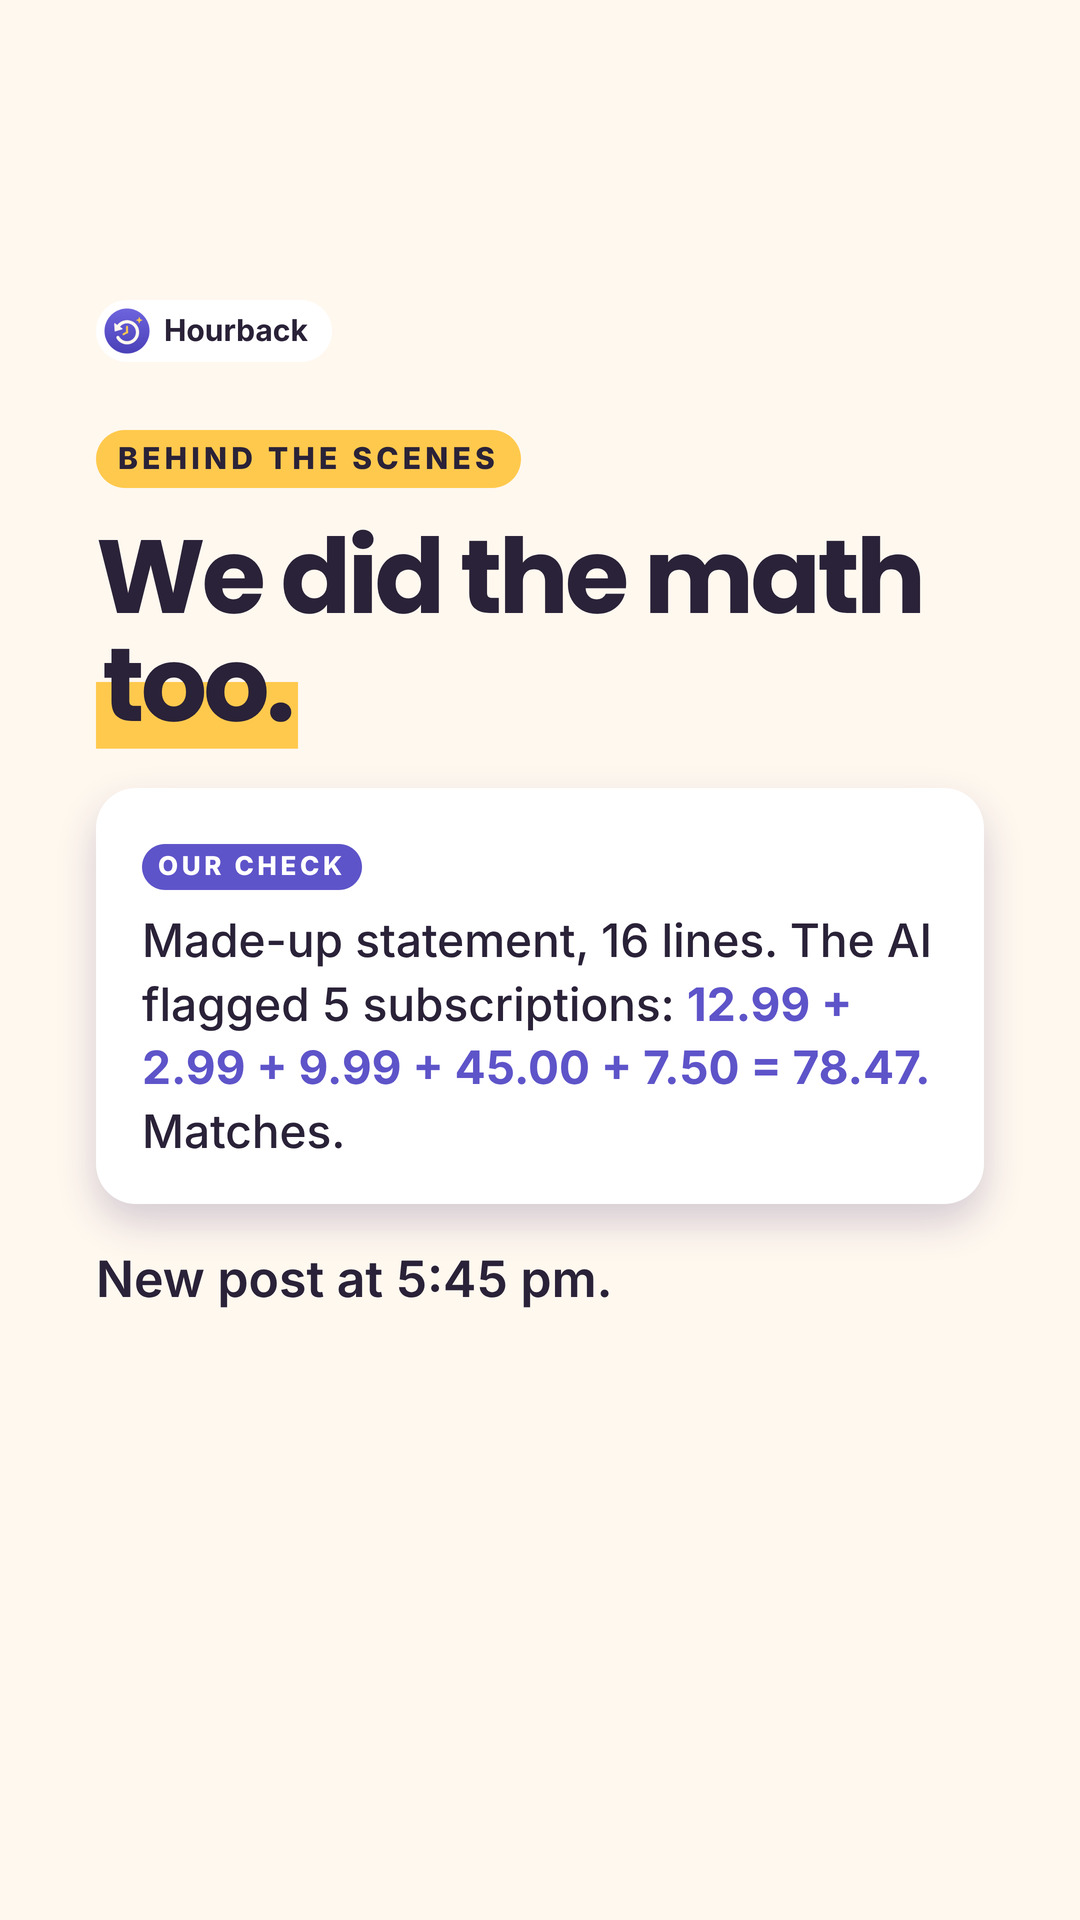
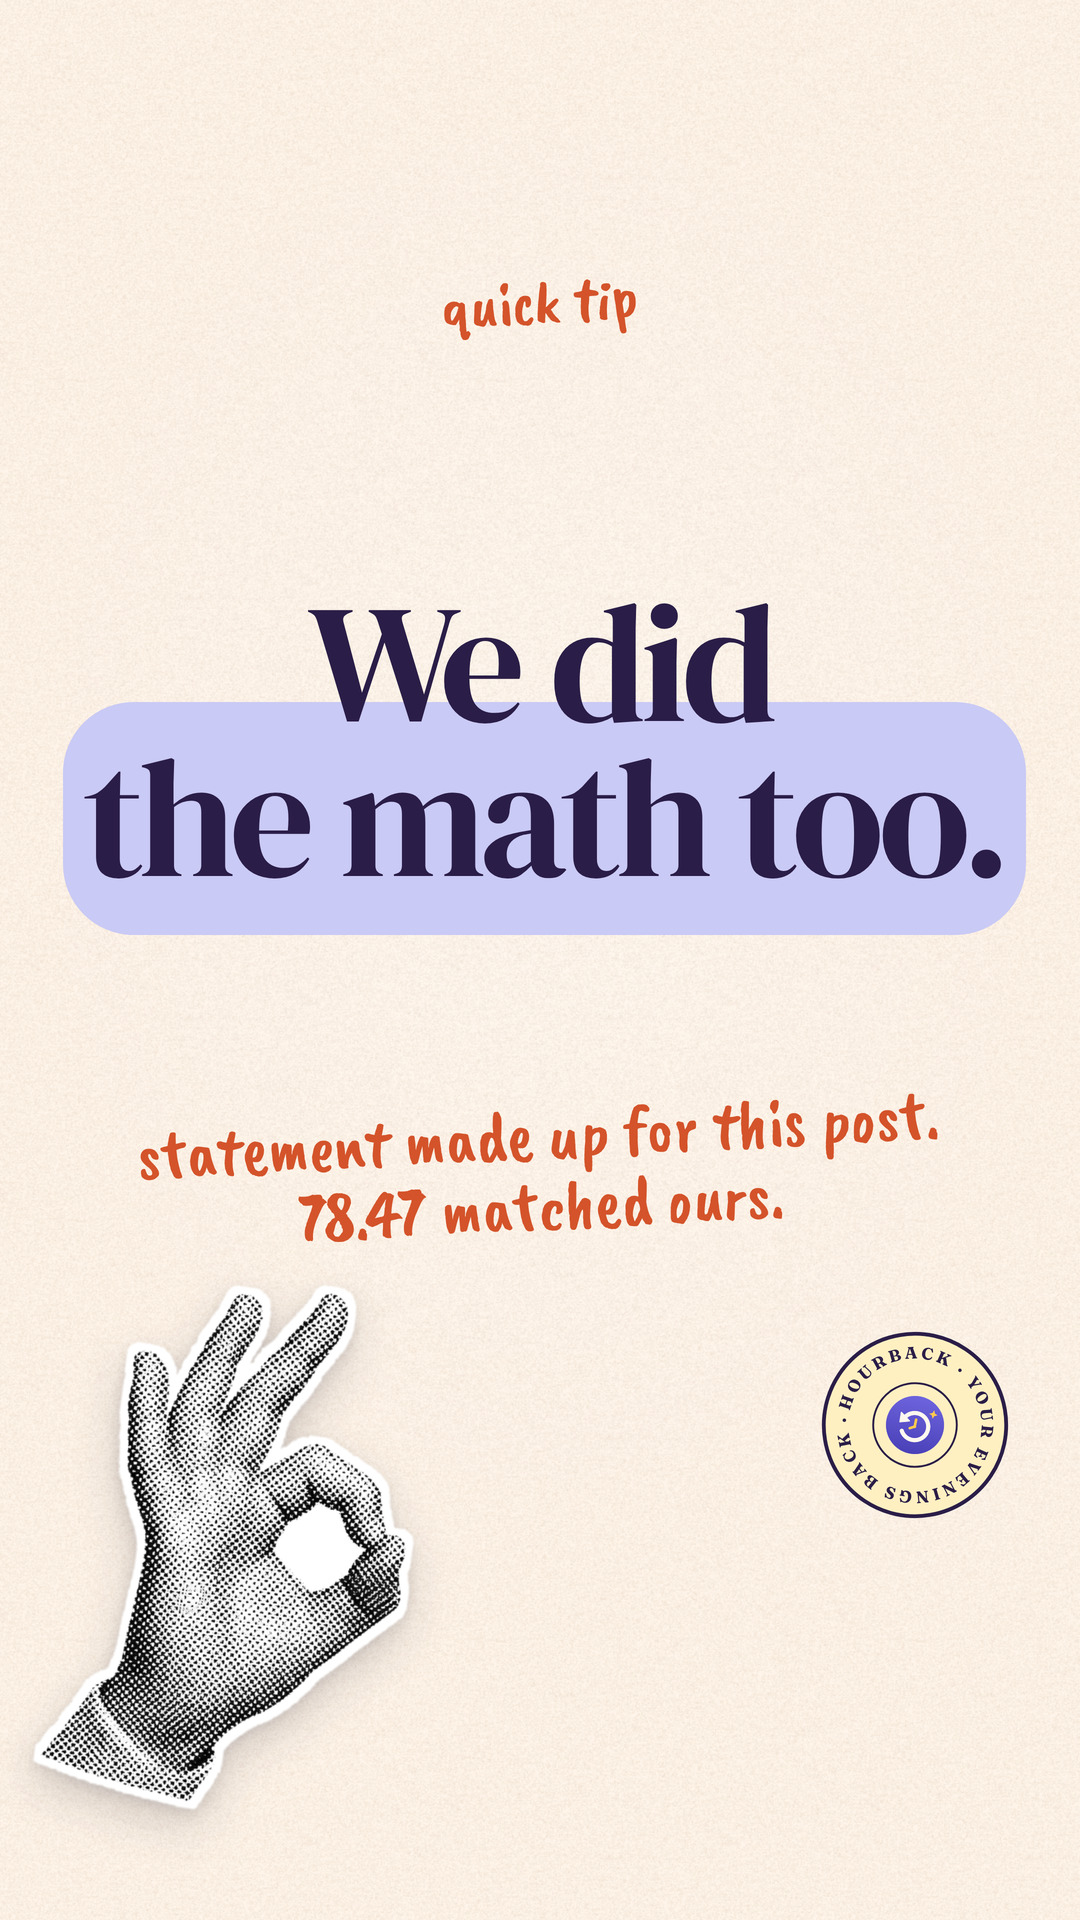
editorial look: Hourback Oct 21 feed (ai-said-what-bill, single-subscriptions) + 4 Stories rebuilt; captions 3 lines; sweep Reel specs added
Claude-Session: https://claude.ai/code/session_01PJwkTdhx1VuEhXpAhTUaLc

diff --git a/studio/pivot/specs_reels.py b/studio/pivot/specs_reels.py
@@ -150,3 +150,58 @@ REELS.update({
         dict(k="say", f="berry", text="Missed them? / *Every parent does.*"),
     ]),
 })
+
+# ------------------------------------------------------------------ queue sweep Oct 17 pm: Reels Oct 19-21 still in the old flat style
+REELS.update({
+    "lh-reel-1019am-pick-task": dict(brand="lockedhour", track="lh-x-tick-boom", scenes=[
+        dict(k="hook", f="dots", text="Pick the task / *before the timer.*", emo="⏳"),
+        dict(k="say", f="cream", text="Write *one task.* / One line."),
+        dict(k="say", f="pink", text="Too big? / *Shrink it.*", drop=True),
+        dict(k="say", f="dots", text="Then start / *a 60-minute timer.*"),
+    ]),
+    "lh-reel-1019-odd-hours": dict(brand="lockedhour", track="lh-x-lock-in", scenes=[
+        dict(k="hook", f="pink", text="Your morning / *might be 4 pm.*", emo="⏰"),
+        dict(k="say", f="cream", text="Check this week's / *real wake-up times.*"),
+        dict(k="say", f="dots", text="Pick the *first quiet / hour* after you wake.", drop=True),
+        dict(k="say", f="pink", text="Waking up / *is the cue.*"),
+    ]),
+    "lh-reel-1020am-nap-time": dict(brand="lockedhour", track="lh-x-phone-down", scenes=[
+        dict(k="hook", f="cream", text="Nap-time hour? / *Start with 20.*", emo="⏳"),
+        dict(k="say", f="pink", text="Pick a *20-minute* task / before the nap."),
+        dict(k="list", f="dots", items=["One *email*", "One *page*", "One *form*"], drop=True),
+        dict(k="say", f="pink", text="Baby stirs at 19? / *You showed up.*"),
+    ]),
+    "lh-reel-1020-shutdown": dict(brand="lockedhour", track="lh-x-lock-in", scenes=[
+        dict(k="hook", f="dots", text="Close the laptop / on a *written plan.*", emo="⏰"),
+        dict(k="say", f="cream", text="Write *3 lines* / on paper."),
+        dict(k="list", f="pink", items=["*1* First task", "*2* Start time", "*3* Where you stopped"], drop=True),
+        dict(k="say", f="dots", text="Tonight's / *yours.*"),
+    ]),
+    "lf-reel-1020am-movements": dict(brand="littlefold", track="lf-x-giggle-pop", scenes=[
+        dict(k="hook", f="pink", text="Movements / *changed?* / Call *now.*", emo="🧺"),
+        dict(k="say", f="cream", text="Don't wait / *until tomorrow.*", drop=True),
+        dict(k="list", f="butter", items=["Moving *less*", "Not moving", "Pattern *changed*"]),
+        dict(k="say", f="berry", text="Call your *midwife* / or maternity unit."),
+        dict(k="say", f="pink", text="Even at / *3 am.*"),
+    ]),
+    "lf-reel-1020-visitors": dict(brand="littlefold", track="lf-x-sunny-bounce", scenes=[
+        dict(k="hook", f="cream", text="Visiting a / new baby? / *Come well.*", emo="🫶"),
+        dict(k="say", f="pink", text="Got a cold? / *Send love by text.*"),
+        dict(k="say", f="butter", text="*Wash your hands* / when you arrive.", drop=True),
+        dict(k="say", f="berry", text="Keep it / *smoke-free.*"),
+    ]),
+    "hb-reel-1021am-brand-email": dict(brand="hourback", track="hb-x-smart-bounce", scenes=[
+        dict(k="hook", f="indi", text="$2,000 for / *one Reel?*", emo="📧"),
+        dict(k="say", f="yel", text="“Reply within / *24 hours.*”"),
+        dict(k="ai", f="plum", text="Is this brand / email legit?"),
+        dict(k="say", f="indi", text="“No, this looks / *like a scam.*”", drop=True),
+        dict(k="list", f="yel", items=["Asks for your *login*", "A *$49* fee", "A *24-hour* rush"], size=104),
+    ]),
+    "hb-reel-1021-group-costume": dict(brand="hourback", track="hb-x-ta-da-funk", scenes=[
+        dict(k="hook", f="indi", text="6 friends. / *1 costume.*", emo="💬"),
+        dict(k="say", f="plum", text="*63 messages.* / No plan."),
+        dict(k="ai", f="yel", text="3 themes from / what we own."),
+        dict(k="list", f="indi", items=["Priya · *rain*", "Theo · *cloud*", "Mila · *sun*", "Kai · *lightning*"], size=104, drop=True),
+        dict(k="say", f="plum", text="Jonah still / *wants pirates.*"),
+    ]),
+})

diff --git a/studio/editorial/specs.py b/studio/editorial/specs.py
@@ -249,3 +249,23 @@ STORIES.update({
     "lh-st-1020-1540-tip": dict(brand=LH, k="tip", f="dots", text="A *20-minute* / task on a / sticky note.", sub="ready for the next gap in your day.", obj="hourglass"),
     "lh-st-1020-2110-evening": dict(brand=LH, k="evening", f="pink", text="Wrote tomorrow's / *first task?*", img="reels/lh-reel-1020-shutdown-cover.jpg", a="Yes", b="Not yet"),
 })
+
+# Queue sweep Oct 17 pm: Hourback Oct 21 posts + Stories were still in the old bold-sans look.
+POSTS.update({
+    "hb-1021-ai-said-what-bill": dict(brand=HB, cover=dict(
+        lay="mosaic", f="indi", text="“$96 dinner. / Ana didn't / drink.”", obj="point", at="bl",
+        save="AI split it. we checked the math."), slides=[
+        dict(f="yel", text="Ana: *$18.* / The rest: *$26.*", sub="food split 4 ways. drinks split 3."),
+        dict(f="plum", text="Add: *“Show / the math.”*", sub="18 + 26 + 26 + 26 = 96. made up for this post."),
+    ]),
+    "hb-1021-single-subscriptions": dict(brand=HB, cover=dict(
+        lay="sticky", f="yel", text="*5 subscriptions,* / one statement", obj="point", at="bl",
+        items=["Streaming 12.99", "Cloud 2.99", "Fitness 9.99", "Phone 45.00", "News 7.50"],
+        save="78.47 a month. made up for this post.")),
+})
+STORIES.update({
+    "hb-st-1021-1": dict(brand=HB, k="question", f="indi", text="Ever had a / *too-good* / brand email?", opts=["Yes, a scam", "Yes, it was real", "Not yet"], obj="phone"),
+    "hb-st-1021-2": dict(brand=HB, k="newpost", f="yel", text="New post: / *$96 dinner.*", img="hb-1021-ai-said-what-bill/01.jpg"),
+    "hb-st-1021-3": dict(brand=HB, k="tip", f="plum", text="We did / *the math too.*", sub="statement made up for this post. 78.47 matched ours.", obj="ok"),
+    "hb-st-1021-4": dict(brand=HB, k="question", f="yel", text="Weather costume: / *who are you?*", opts=["Sun or rain", "Fog or lightning"], obj="point"),
+})

diff --git a/studio/pivot/boldkit.py b/studio/pivot/boldkit.py
@@ -87,6 +87,14 @@ SAVES = {  # handwritten save-line on each Reel's hook / cover
     "lf-reel-1018-breathe": "it's ok to put baby down safely",
     "lh-reel-1018-mute-the-world": "save this for tomorrow morning",
     "lf-reel-1019am-hunger-cues": "save this for the first feeds",
+    "lh-reel-1019am-pick-task": "save this for tomorrow morning",
+    "lh-reel-1019-odd-hours": "send this to a friend on nights",
+    "lh-reel-1020am-nap-time": "save this for the next nap",
+    "lh-reel-1020-shutdown": "save this for tonight",
+    "lf-reel-1020am-movements": "send this to someone expecting",
+    "lf-reel-1020-visitors": "send this to the group chat",
+    "hb-reel-1021am-brand-email": "save this before you reply to a brand",
+    "hb-reel-1021-group-costume": "send this to the group chat",
 }
 HOOK_OBJ = {"fullyfunded": ["point", "ok", "piggy"], "hourback": ["point", "phone", "chat"]}
 
